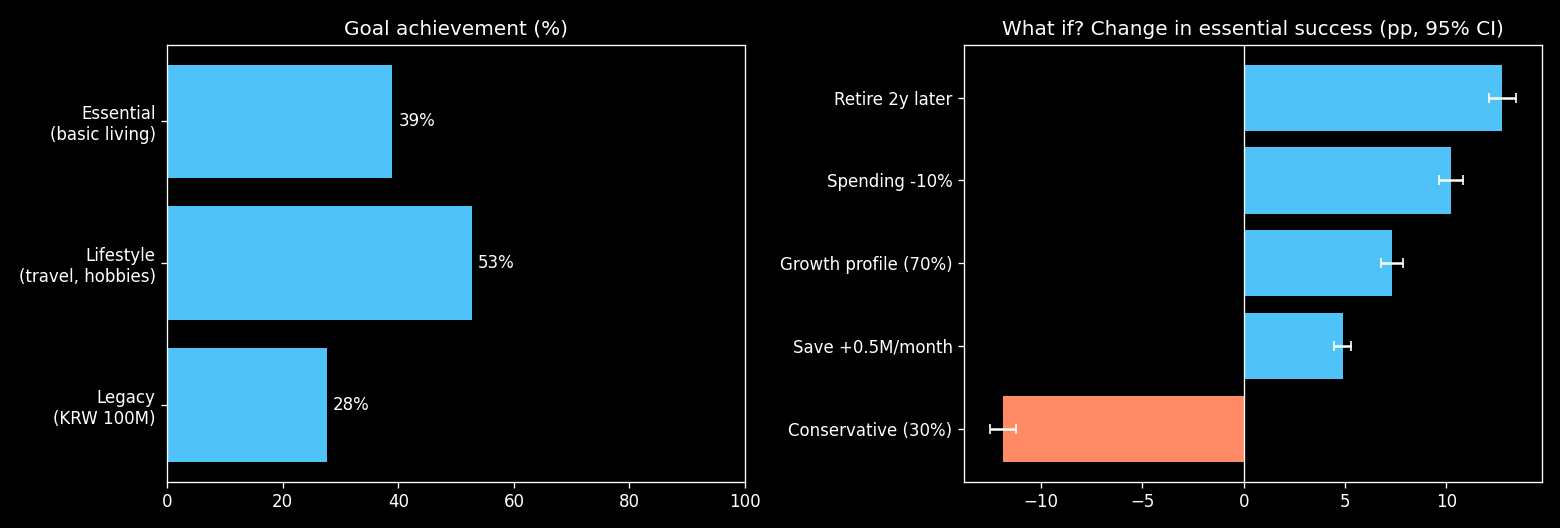
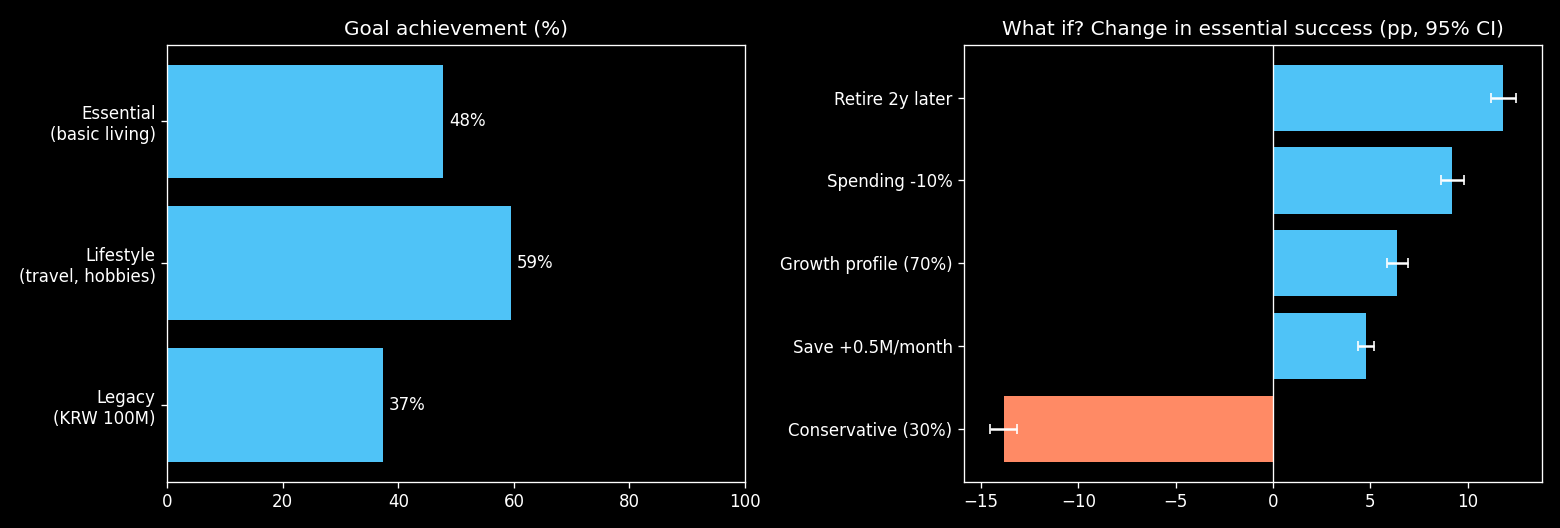
Add files via upload

diff --git a/retire_sim/economy_v2.py b/retire_sim/economy_v2.py
@@ -59,11 +59,13 @@ class EconomyV2:
     @classmethod
     def enhanced(cls, calibrated: bool = True, **kw):
         """권장 설정: 피셔 연결 + 운용보수 0.5% + 파라미터 불확실성 + 폭락 점프 + 반대 난수 + 적분 금리 + 기간 프리미엄.
-        calibrated=True(v14 기본): 물가·실질금리 파라미터를 ECOS 실데이터 추정치(CALIBRATED_2026_08)로 사용."""
+        calibrated=True(기본): 물가·실질금리(v14, ECOS)와 주식(v18, KOSPI) 파라미터를 실데이터 추정치로 사용.
+        calibrated=False: v13 이전 임시값."""
         base = dict(fisher=True, rho_rp=0.0, fee=0.005, erp_sd=0.01, pi_theta_sd=0.005,
                     jump_lambda=0.1, antithetic=True, integrated_rate=True, term_premium=0.005)
         if calibrated:
             base.update(CALIBRATED_2026_08)
+            base.update(CALIBRATED_EQUITY_2026_08)
         base.update(kw)
         return cls(**base)
 
@@ -252,3 +254,15 @@ def _generate_integrated(e: EconomyV2, T: int, n: int, rng) -> dict:
     cpi = np.concatenate([np.ones((n, 1)), np.cumprod(1 + infl, axis=1)], axis=1)
     return {"stock": stock, "bond": bond, "infl": infl, "cpi": cpi, "rate": r,
             "antithetic": e.antithetic, "erp_path": erp}
+
+
+# KOSPI 실데이터 추정 (v18, 2000-02~2026-08 월별 319개월, FinanceDataReader 'KS11' + ECOS 국고채 3년)
+# - 변동성·폭락 점프: 월 수익률 연환산 변동성 23.9%, 초과첨도 2.43, 12개월 수익률 −20% 이하 9.4%·−30% 이하 2.6%에
+#   맞춰 확산 21% + 점프(연 0.05회, 로그 −20%±10%)로 보정 → 연 로그수익 표준편차 21.6%, 꼬리 빈도 9.6%·2.9%
+# - 위험프리미엄: 데이터(가격 초과수익 3.92%±9.09%p + 배당 1.8% 가정 + ½σ²) 8.6%±4.6%p를
+#   사전분포(성숙시장 ERP 4.2%[Damodaran 2026] + 한국 국가위험 약 0.7%p = 4.9%±1.5%p)와 결합한 사후값
+# - 금리 상관: 월 수익률과 국고채 3년 변화의 상관 +0.09
+CALIBRATED_EQUITY_2026_08 = dict(
+    s_sigma=0.21, jump_lambda=0.05, jump_mu=-0.20, jump_sigma=0.10,
+    erp=0.052, erp_sd=0.014, rho_rs=0.09, rho_ps=0.0,
+)

diff --git a/streamlit_app.py b/streamlit_app.py
@@ -528,10 +528,10 @@ with tab5:
 - 국민연금, 사적연금 분리과세, 금융소득종합과세, 건강보험료, 재산세·종부세, 상속·증여세를 반영합니다.
 
 **알아두실 점**
-- 사망률은 통계청 2024 완전생명표(미래 수명 연장 미반영), 금리·물가는 한국은행 ECOS 2000~2026년 데이터로 추정했습니다. 간병은 건강보험공단 장기요양 통계(연령별 인정률, 등급 구성)와 2026 본인부담·간병비 시세로 보정했습니다. 주식 수익률만 아직 **임시 가정값**입니다. 결과의 절대값보다 **선택지 사이의 차이**를 보세요.
+- 사망률은 통계청 2024 완전생명표(미래 수명 연장 미반영), 금리·물가는 한국은행 ECOS 2000~2026년 데이터로 추정했습니다. 간병은 건강보험공단 장기요양 통계와 2026 본인부담·간병비 시세로, 주식은 KOSPI 2000~2026년 데이터로 추정했습니다. 다만 **주식 위험프리미엄은 추정 오차가 커서**(5.2% ± 1.4%p) 결과의 절대값이 크게 움직일 수 있습니다. 결과의 절대값보다 **선택지 사이의 차이**를 보세요.
 - 세법은 2026년 9월 기준으로 단순화했습니다. **투자 추천이나 세무 자문이 아니며**, 실제 결정 전 전문가와 상의하세요.
 - 입력하신 정보는 계산에만 쓰이고 서버에 저장하지 않습니다.
 """)
     st.markdown("모델 수식과 검증: [GitHub 저장소](https://github.com/minyoungkang1227/retirement-simulator)")
 
-st.markdown('<p class="note">추천이 아닌 비교 결과입니다 · 제도 기준 2026-09 · 가정값 임시 · © 2026 강민영</p>', unsafe_allow_html=True)
+st.markdown('<p class="note">추천이 아닌 비교 결과입니다 · 제도·데이터 기준 2026-08 · © 2026 강민영</p>', unsafe_allow_html=True)

diff --git a/README.en.md b/README.en.md
@@ -34,26 +34,27 @@ Most Korean retirement calculators fix returns and lifespan and ignore taxes and
 ## Example (couple aged 52 and 50, retiring at 60, KRW 500M, saving KRW 1.5M/month · placeholder assumptions)
 
 - Essential KRW 3M/month + lifestyle KRW 12M/year − pensions KRW 1.6M/month → **income gap KRW 2.4M/month**
-- Goal success: essential **39%**, lifestyle funding **53%**, KRW 100M legacy **28%**
+- Goal success: essential **48%**, lifestyle funding **60%**, KRW 100M legacy **37%**
 
 | What if | Change in essential success (95% CI) |
 |---|---|
-| Retire 2 years later | **+12.8pp** (±0.7) |
-| Spend 10% less | +10.2pp (±0.6) |
-| Growth profile | +7.3pp (±0.5) |
-| Save KRW 0.5M more per month | +4.9pp (±0.4) |
-| Conservative profile | −11.9pp (±0.6) |
+| Retire 2 years later | **+11.8pp** (±0.6) |
+| Spend 10% less | +9.2pp (±0.6) |
+| Growth profile | +6.4pp (±0.5) |
+| Save KRW 0.5M more per month | +4.8pp (±0.4) |
+| Conservative profile | −13.9pp (±0.7) |
 
 | Crisis | Change in essential success |
 |---|---|
-| Equities −40% in the first year of retirement | −15.4pp |
-| Equities −40% ten years into retirement | −10.3pp |
-| Three years of 6% inflation | −5.7pp |
-| Longer life (mortality −20%) | −3.5pp |
+| Equities −40% in the first year of retirement | −15.7pp |
+| Equities −40% ten years into retirement | −10.4pp |
+| Three years of 6% inflation | −5.6pp |
+| Longer life (mortality −20%) | −3.6pp |
 | Long-term care incidence doubled | −1.0pp |
 
 - For this household **retirement timing is the strongest lever**, and the same crash hurts most right after retirement (sequence-of-returns risk).
-- Splitting spending into essential + flexible lowers the depletion probability versus fixed spending of the same total (61.9% → 55.4%).
+- Splitting spending into essential + flexible lowers the depletion probability versus fixed spending of the same total (53.9% → 47.6%).
+- The largest uncertainty is the **equity risk premium**: within its estimated range (5.2% ± 1.4pp) essential success moves between 36% and 59%, which is why differences between choices matter more than levels.
 
 ![goals](docs/images/goals_whatif.png)
 ![tax strategies](docs/images/tax_strategies.png)
@@ -67,6 +68,7 @@ Most Korean retirement calculators fix returns and lifespan and ignore taxes and
 - Mortality: Statistics Korea 2024 complete life table; model life expectancy matches published values (ages 0, 60, 65, 80, both sexes)
 - Multi-state care model preserves male life expectancy at 60 (table 23.7 → 23.9 years)
 - OU maximum likelihood recovers long-run mean and volatility on synthetic data (small-sample upward bias in mean-reversion speed confirmed and corrected for real data)
+- Equities: volatility, crash frequency and rate correlation estimated from KOSPI monthly data 2000-02 to 2026-08; the risk premium combines the data with an external prior (Damodaran) in a Bayesian way
 - Rates and inflation estimated from ECOS monthly data 2000-01 to 2026-08 (inflation long-run mean 2.47% ±1.02pp, real rate 0.73% ±0.74pp)
 - Paired-difference CIs for comparisons (±1.38pp under independence → ±0.44pp)
 
@@ -109,11 +111,12 @@ python scripts/validate_v11.py      # validation
 | Web app (Streamlit) | Done |
 | v12 goal-based rebuild (three goals, income gap, accumulation phase, model portfolios, step-by-step input) | Done |
 | Statistics Korea 2024 complete life table (v13) | Done |
+| Equity returns from real data v18: KOSPI volatility, crash jumps, rate correlation, Bayesian risk premium | Done |
 | Long-term-care model from real data v17: two severity levels calibrated to national LTC recognition rates and grade mix, 2026 out-of-pocket and caregiver costs | Done |
 | Actuarial essential floor v16: survival-weighted present value reflecting pension start and couple survival states | Done |
 | Add-on products v15: stocks by ticker (beta, correlation, rate sensitivity), deposits, life annuities, long-term-care insurance, pension contributions | Done |
 | ECOS rate/inflation estimation (v14) | Done |
-| Cohort mortality improvement, real data for equity returns | Planned |
+| Cohort mortality improvement | Planned |
 | Home sale and reverse mortgage | Planned |
 | Account/budget-app import, periodic re-measurement | Planned |
 
@@ -121,7 +124,7 @@ See [CHANGELOG.md](CHANGELOG.md) and [docs/MODEL.en.md](docs/MODEL.en.md) for de
 
 ## Limitations
 
-- Mortality uses the Statistics Korea 2024 period life table (no future improvement yet); rates and inflation are estimated from ECOS 2000–2026 data. Long-term care is calibrated to national statistics; only equity returns are still **placeholders**. Focus on **differences between choices**.
+- Mortality uses the Statistics Korea 2024 period life table (no future improvement yet); rates and inflation are estimated from ECOS 2000–2026 data. Long-term care is calibrated to national statistics and equities to KOSPI data. No placeholders remain, but the **equity risk premium is uncertain** (±1.4pp). Focus on **differences between choices**.
 - Tax rules are simplified (Korea, as of 2026-09). **Not investment or tax advice.**
 - Web-app inputs are used only for calculation and are not stored.
 

diff --git a/CHANGELOG.md b/CHANGELOG.md
@@ -1,5 +1,19 @@
 # 변경 내역 (Changelog)
 
+## v18 — 주식 수익률을 KOSPI 실데이터로 추정 (2026-09-29)
+
+| 무엇을 | 데이터 (KOSPI 2000-02~2026-08, 319개월) | 전 → 후 |
+|---|---|---|
+| 변동성·폭락 | 월 수익률 연환산 변동성 23.9%, 초과첨도 2.43, 최대 낙폭 −49.2%, 12개월 수익률 −20% 이하 9.4%·−30% 이하 2.6% | 확산 18% + 점프(연 0.1회, −15%) → **확산 21% + 점프(연 0.05회, −20%±10%)**. 모델 꼬리 빈도 9.9%·3.1%로 데이터와 근접 |
+| 금리 상관 | 월 수익률과 국고채 3년 변화 상관 +0.09 | 실질금리 충격 상관 −0.2 → **+0.09**, 물가 충격 상관 −0.1 → 0 |
+| 위험프리미엄 | 가격 초과수익 3.92%±9.09%p(95%) + 배당 1.8%(가정) + ½σ² → 8.6%±4.6%p(표준오차) | 4.0%±1.0%p → **5.2%±1.4%p**. 사전분포(성숙시장 ERP 4.2%[Damodaran 2026] + 한국 국가위험 약 0.7%p = 4.9%±1.5%p)와 베이즈 결합. 데이터 가중치는 약 9% |
+| 결과 (52세 부부) | — | 기본생활 유지 39.0% → **47.8%**, 여행·취미 52.7% → 59.5%, 유산 27.6% → 37.3% · 60·58세 부부 고갈 61.9% → 53.9% |
+| 위험프리미엄 민감도 | — | 3.8% / 5.2% / 6.6% → 기본생활 유지 36.3% / 47.4% / 59.1% — **모델에서 가장 큰 불확실성** |
+
+- 해석: 주식 기대수익이 올라가면서 결과가 좋아졌지만, 위험프리미엄 추정 오차(±1.4%p)만으로 결과가 ±11%p 움직인다. 2025~2026년 급등이 데이터 평균을 끌어올렸기 때문에, 데이터만 쓰지 않고 연구치와 결합했다.
+- `EconomyV2.enhanced(calibrated=False)`는 금리·물가·주식 모두 v13 이전 임시값.
+- 한계: 배당수익률 1.8%는 가정, KOSPI는 한 나라·26년 표본(생존 편의), 변동성은 일정하다고 가정(변동성 군집 미반영).
+
 ## v17 — 간병 모델을 장기요양 통계로 보정 (2026-09-29)
 
 | 무엇을 | 어떻게 | 전과 무엇이 달라졌나 |

diff --git a/docs/MODEL.en.md b/docs/MODEL.en.md
@@ -219,3 +219,8 @@ The essential floor becomes the survival-weighted present value of future essent
 ## 19. v17 two-level long-term-care model
 
 States healthy / mild (grades 3–5, cognitive support) / severe (grades 1–2) / dead. Incidence by age is calibrated so that simulated prevalence matches national figures (1.235M recognised in 2025 × age mix ÷ population: 1.5% at 65–69 up to 55.4% at 90+), with the severe share matched to 12.7%. Mortality multipliers 1.8 (mild) and 4.0 (severe), healthy mortality rescaled to preserve the life table. Annual costs (today's KRW): mild median 7.2M, severe median 18M (lognormal), based on 2026 out-of-pocket rules and caregiver market prices.
+
+
+## 20. v18 equity calibration
+
+KOSPI monthly data 2000-02 to 2026-08: diffusion volatility 21% plus Merton jumps (0.05 per year, −20% ± 10%) match the observed tail frequencies of 12-month returns (≤ −20%: 9.4%, ≤ −30%: 2.6%); correlation with 3-year yield changes +0.09. The equity risk premium is a normal-normal Bayesian posterior combining the sample estimate (8.6% ± 4.6pp s.e., including an assumed 1.8% dividend yield) with a prior of 4.9% ± 1.5pp (Damodaran mature-market ERP 4.2% plus a Korea country premium), giving 5.2% ± 1.4pp, used as per-path parameter uncertainty.

diff --git a/docs/MODEL.md b/docs/MODEL.md
@@ -251,3 +251,17 @@ $q^H_x=q_x/\big(1+(m_M-1)p_x(1-s)+(m_S-1)p_x s\big)$, $p_x$ 목표 유병률, $s
 | 보정 발생률 $i_x$ | 0.15% | 0.43% | 0.75% | 2.68% | 6.93% | 9.98% | 12.6% |
 
 $\pi=2.1\%$, $e=10\%$, $\rho=2\%$, $m_M=1.8$, $m_S=4.0$. 비용: 경증 LN(중앙값 720만, σ 0.6), 중증 LN(1,800만, σ 0.8), 연·오늘 가치.
+
+
+## 20. v18 주식 수익률 추정
+
+KOSPI 월말 지수(2000-02~2026-08, 319개월). 연 로그수익 $=\int r+\text{ERP}-\tfrac12\sigma^2+\sigma Z+\sum J-\lambda k$.
+
+| 모수 | 추정 | 근거 |
+|---|---|---|
+| $\sigma$ (확산) | 21% | 연 로그수익 표준편차·꼬리 빈도에 맞춘 값 (월 환산 변동성 23.9%) |
+| 점프 $\lambda,\mu_J,\sigma_J$ | 0.05, −20%, 10% | 12개월 수익률 −20%/−30% 이하 빈도 9.4%/2.6% ↔ 모델 9.9%/3.1% |
+| 금리 상관 | +0.09 | 월 수익률 vs 국고채 3년 변화 |
+| ERP | 5.2% ± 1.4%p | 정규-정규 베이즈: 사전 $N(4.9\%,1.5\%^2)$, 데이터 $N(8.6\%,4.6\%^2)$ → 사후 $N(5.25\%,1.43\%^2)$. 경로별 파라미터 불확실성으로 사용 |
+
+데이터 산술 초과수익 = 로그 초과수익 3.92% + 배당 1.8%(가정) + $\tfrac12\sigma^2$(2.8%).
